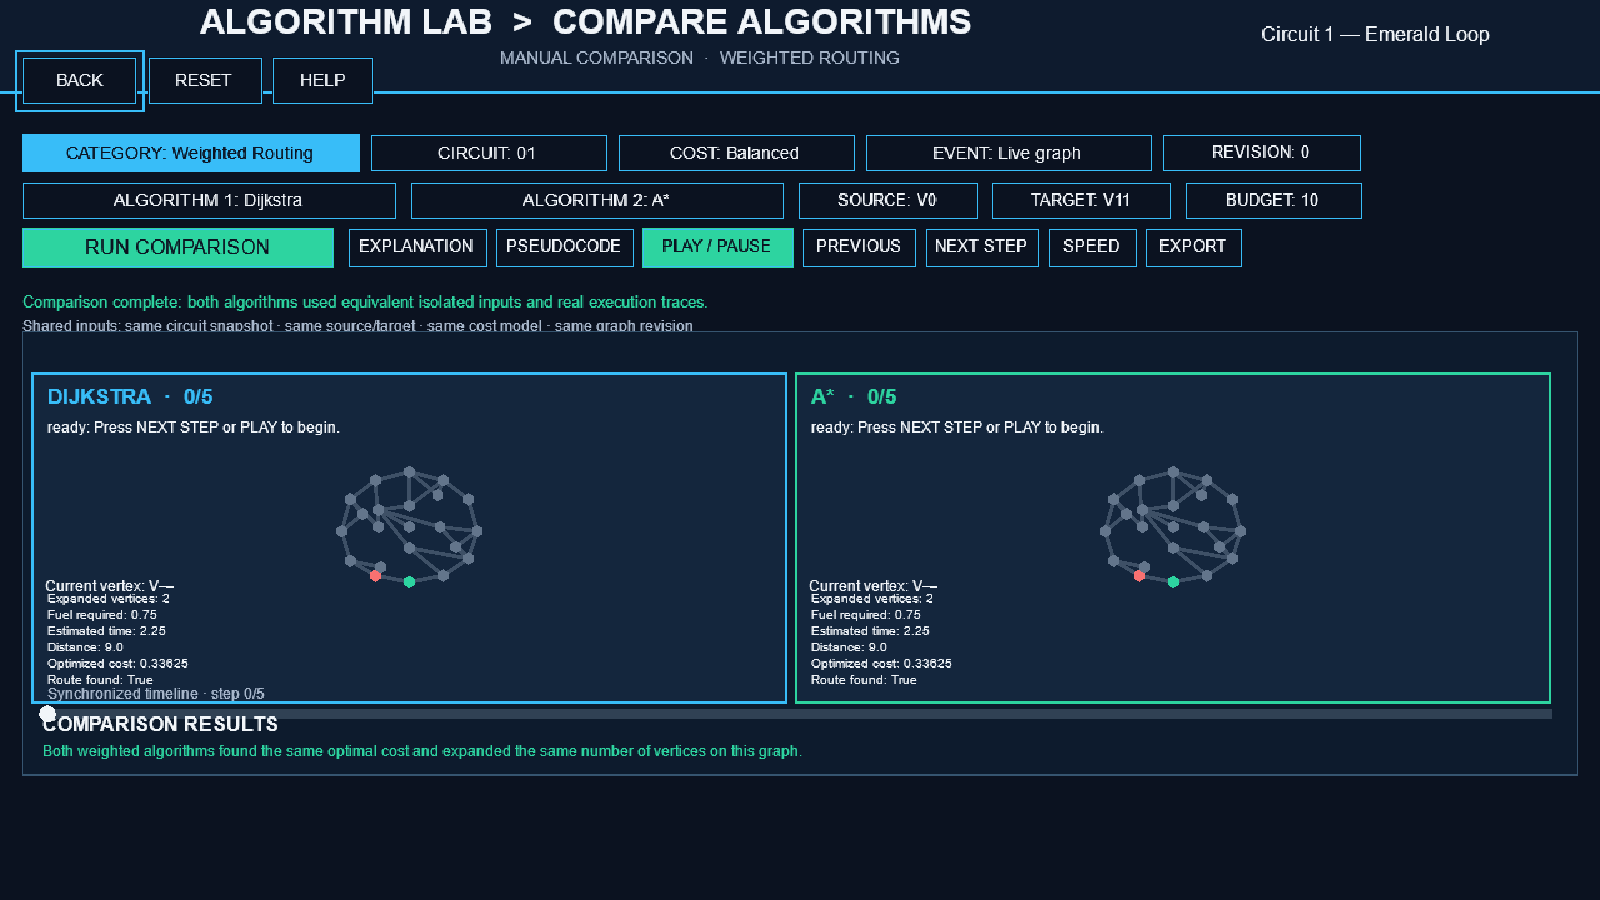
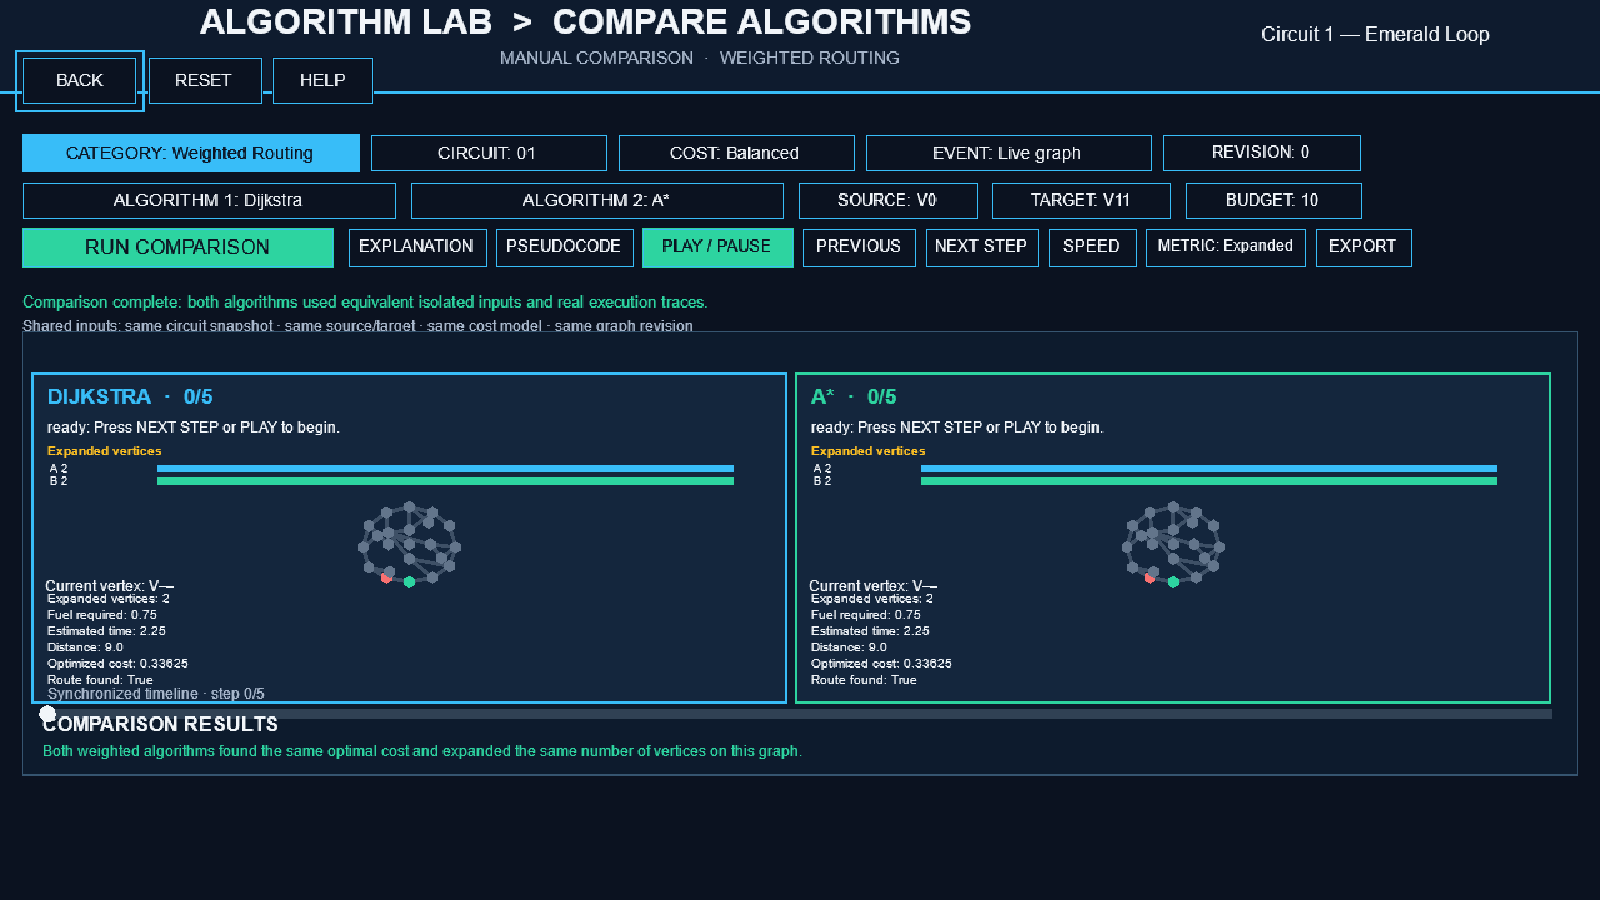
fix(algorithm-lab): add comparison metric chart

Changed region(s): [[0.5, 0.4978, 0.9375, 0.6533], [0.0312, 0.4978, 0.4688, 0.6533], [0.7188, 0.2489, 0.875, 0.28]]

diff --git a/src/smart_racing/arcade_ui/comparison_view.py b/src/smart_racing/arcade_ui/comparison_view.py
@@ -77,6 +77,7 @@ class AlgorithmComparisonView(ArcadeView):
         self.preset = "balanced"
         self.event_scenario = "Live graph"
         self.capacity = 10
+        self.chart_metric = "Auto"
         self.graph_revision = 0
         self.comparison: dict | None = None
         self.step_index = 0
@@ -154,7 +155,8 @@ class AlgorithmComparisonView(ArcadeView):
             self.add_button("PREVIOUS", 642, input_y, 92, 32, self.previous_step, NAVY, WHITE, CYAN, font_size=10)
             self.add_button("NEXT STEP", 740, input_y, 92, 32, self.next_step, NAVY, WHITE, CYAN, font_size=10)
             self.add_button("SPEED", 838, input_y, 72, 32, self.cycle_speed, NAVY, WHITE, CYAN, font_size=10)
-            self.add_button("EXPORT", 916, input_y, 78, 32, self.export_comparison, NAVY, WHITE, CYAN, font_size=10)
+            self.add_button(f"METRIC: {self._chart_metric_short()}", 916, input_y, 130, 32, self.cycle_chart_metric, NAVY, WHITE, CYAN, font_size=9)
+            self.add_button("EXPORT", 1052, input_y, 78, 32, self.export_comparison, NAVY, WHITE, CYAN, font_size=10)
         else:
             self.add_button("EXPORT", 514, input_y, 78, 32, self.export_comparison, NAVY, WHITE, CYAN, font_size=10)
         bottom = self.workspace_rect[1]
@@ -178,6 +180,7 @@ class AlgorithmComparisonView(ArcadeView):
         self.category_index = (self.category_index + 1) % len(_CATEGORY_ORDER)
         self.category = _CATEGORY_ORDER[self.category_index]
         self.algorithm1, self.algorithm2 = self.options[:2]
+        self.chart_metric = "Auto"
         self._invalidate(f"Category changed to {self.category}; both algorithms were reset to valid independent choices.")
 
     def cycle_algorithm1(self) -> None:
@@ -221,6 +224,47 @@ class AlgorithmComparisonView(ArcadeView):
         self.playback_speed = self.SPEEDS[(self.SPEEDS.index(self.playback_speed) + 1) % len(self.SPEEDS)]
         self.status = f"Playback speed: {self.playback_speed:g}×. Each trace keeps its own step count."
         self.rebuild_ui()
+
+    def cycle_chart_metric(self) -> None:
+        metrics = self._chart_metric_options()
+        self.chart_metric = metrics[(metrics.index(self.chart_metric) + 1) % len(metrics)]
+        self.status = f"Chart metric: {self._chart_metric_name()}. Both panels use the same scale."
+        self.rebuild_ui()
+
+    def _chart_metric_options(self):
+        options = {
+            "Graph Traversal": ("Auto", "Operation count", "Visited vertices", "Examined edges"),
+            "Weighted Routing": ("Auto", "Expanded vertices", "Heap operations", "Runtime"),
+            "Resource Optimization": ("Auto", "Total benefit", "States evaluated", "Decision count"),
+            "Championship Sorting": ("Auto", "Comparisons", "Swaps", "Moves"),
+        }
+        return options[self.category]
+
+    def _chart_metric_name(self):
+        if self.chart_metric != "Auto":
+            return self.chart_metric
+        return {
+            "Graph Traversal": "Operation count",
+            "Weighted Routing": "Expanded vertices",
+            "Resource Optimization": "Total benefit",
+            "Championship Sorting": "Comparisons",
+        }[self.category]
+
+    def _chart_metric_short(self):
+        return {
+            "Operation count": "Operations",
+            "Visited vertices": "Visited",
+            "Examined edges": "Edges",
+            "Expanded vertices": "Expanded",
+            "Heap operations": "Heap ops",
+            "Runtime": "Runtime",
+            "Total benefit": "Benefit",
+            "States evaluated": "States",
+            "Decision count": "Decisions",
+            "Comparisons": "Comparisons",
+            "Swaps": "Swaps",
+            "Moves": "Moves",
+        }.get(self._chart_metric_name(), self._chart_metric_name())
 
     def _show_revision(self) -> None:
         self.status = f"Both algorithms will receive isolated copies of graph revision {self.graph_revision}."
@@ -537,7 +581,8 @@ class AlgorithmComparisonView(ArcadeView):
         else:
             step = self._step_for(side)
             _text(f"{step['operation']}: {step.get('explanation', '')}", x + 12, y + height - 48, 9, WHITE, width=width - 24)
-        visual_y, visual_h = y + 84, height - 150
+        self._draw_metric_chart(item, x + 12, y + height - 86, width - 24)
+        visual_y, visual_h = y + 84, height - 178
         if name in {"BFS", "DFS", "Dijkstra", "A*"}:
             self._draw_graph_side(item, x + 10, visual_y, width - 20, visual_h)
         elif name in {"0/1 Knapsack DP", "Greedy"}:
@@ -601,6 +646,26 @@ class AlgorithmComparisonView(ArcadeView):
             x = left + 10 + index * (bar_w + 8)
             arcade.draw_lbwh_rectangle_filled(x, bottom + 18, bar_w, bar_h, CYAN if index < self.step_index else (51, 82, 105))
             _text(record["name"], x + bar_w / 2, bottom + 5, 7, WHITE, anchor_x="center")
+
+    def _draw_metric_chart(self, item, left, y, width):
+        metric = self._chart_metric_name()
+        values = [self._numeric_metric(side["metrics"].get(metric, 0)) for side in (self.comparison["left"], self.comparison["right"])]
+        maximum = max(values + [1.0])
+        _text(metric, left, y + 20, 8, AMBER, bold=True)
+        for index, value in enumerate(values):
+            bar_y = y + 7 - index * 10
+            color = CYAN if index == 0 else EMERALD
+            arcade.draw_lbwh_rectangle_filled(left + 88, bar_y, max(2, (width - 118) * value / maximum), 6, color)
+            _text(f"{'A' if index == 0 else 'B'} {value:g}", left + 2, bar_y - 1, 7, WHITE)
+
+    @staticmethod
+    def _numeric_metric(value):
+        if isinstance(value, (int, float)):
+            return float(value)
+        try:
+            return float(str(value).split()[0])
+        except (TypeError, ValueError):
+            return 0.0
 
     @staticmethod
     def _draw_metric_lines(metrics, left, bottom, width, limit):
